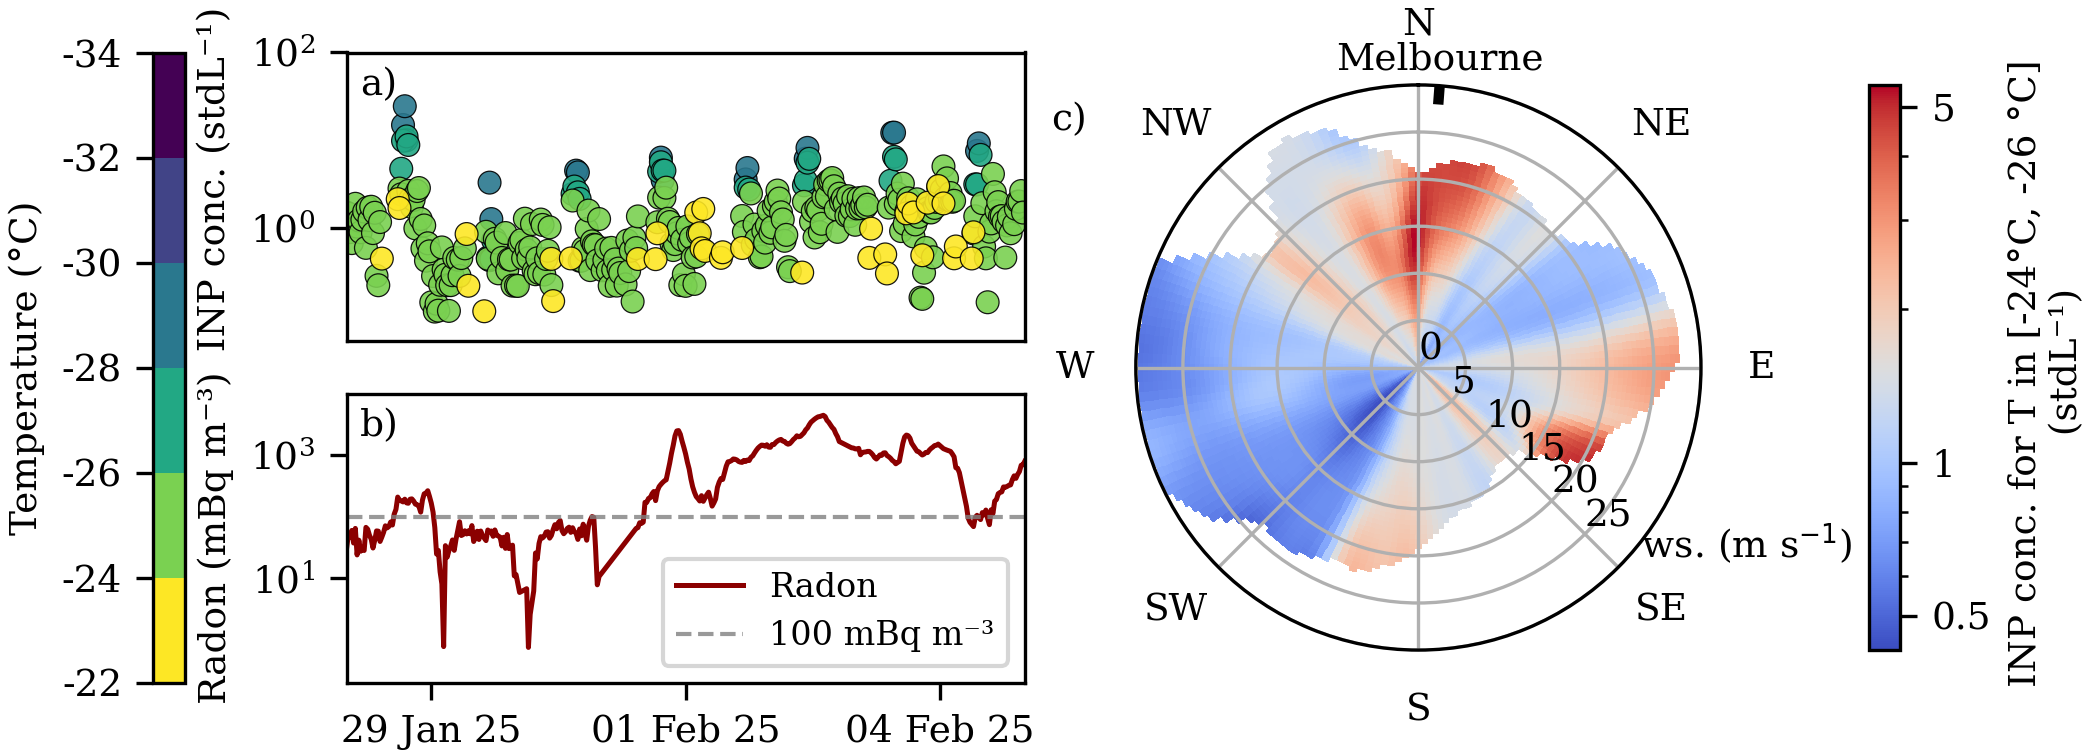
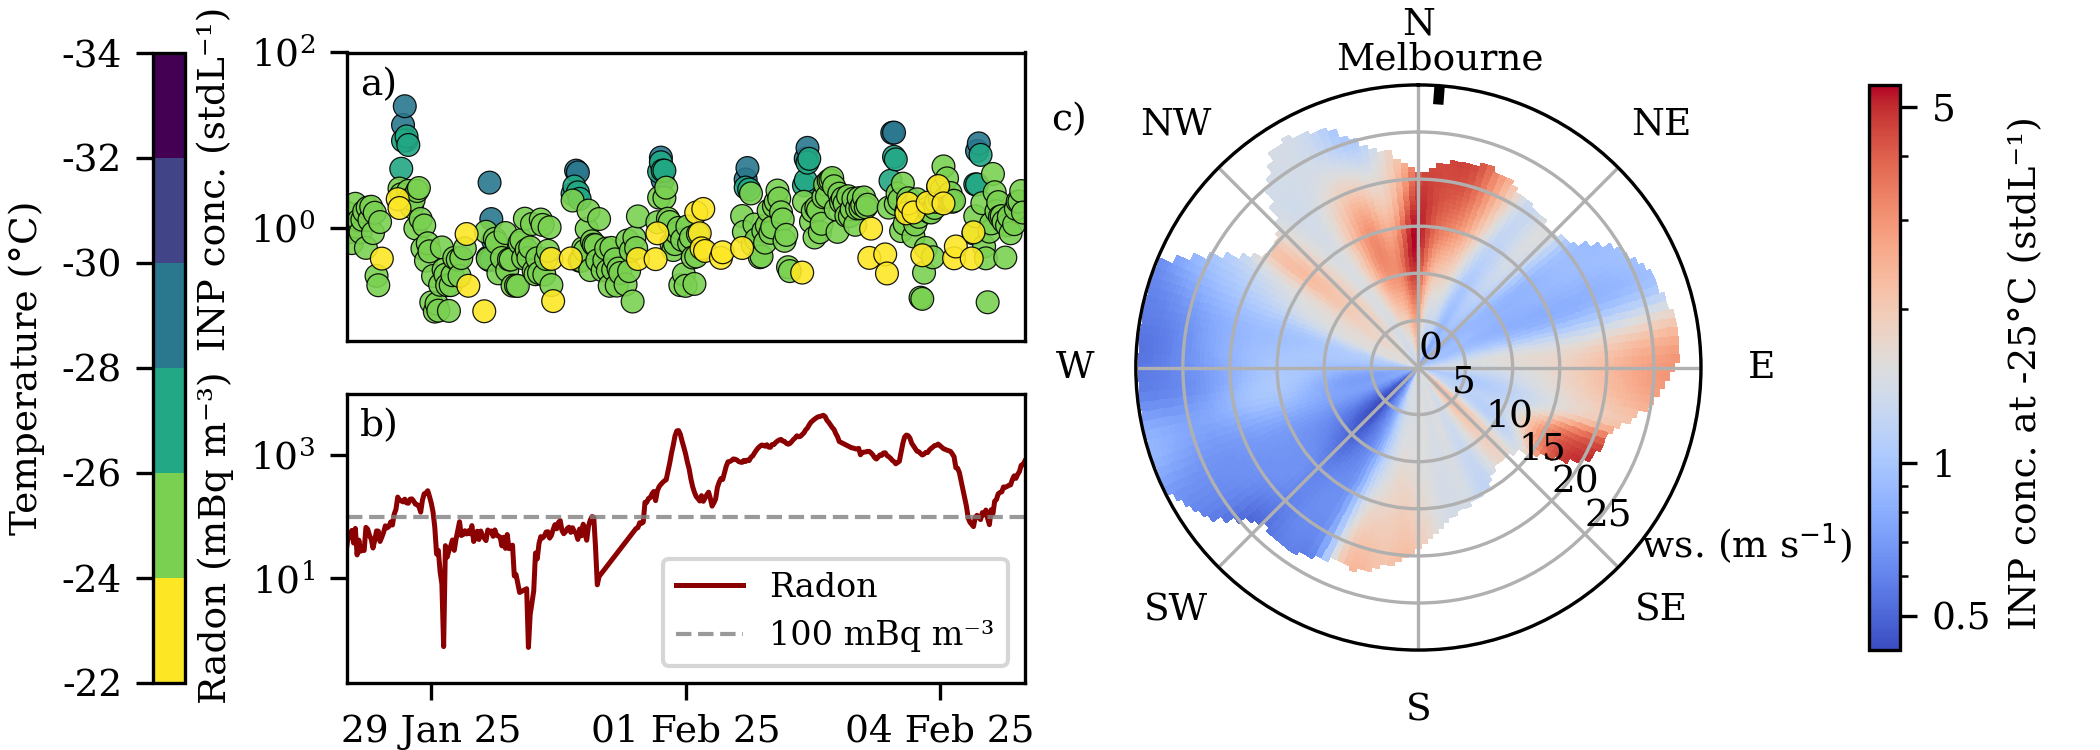
Variability PINE script

Changed region(s): [[0.9595, 0.184, 0.9905, 0.8893]]

diff --git a/Analysis/findVariabilityPINE.py b/Analysis/findVariabilityPINE.py
@@ -1,0 +1,59 @@
+'''
+This script bins the PINE data in 2K bins, calculates the 4h average and prints the minimum (non-zero), maximum, mean, median and IQR for each bin
+'''
+import pandas as pd
+import numpy as np
+
+
+csv_file = '/mnt/d/Cape24-data/Data/processedPINE/Capek.csv'
+df = pd.read_csv(csv_file)
+
+
+df['datetime'] = pd.to_datetime(df['datetime'], errors='coerce')
+df = df.dropna(subset=['datetime', 'T_min', 'INP_cn_0'])
+
+# Quality control
+df = df[
+    (df['T_min'] < 253.15) &                     # keep only T_min < -20 °C (in Kelvin)
+    (df['operation_number'] >= 11) & 
+    (~df['operation_number'].between(24, 27, inclusive='both')) &
+    (~df['operation_number'].isin([242, 244])) & 
+    (~df['operation_number'].isin([43])) & 
+    (~df['operation_number'].isin([74]))
+]
+
+df['T_min_K'] = df['T_min']
+df['T_min_C'] = df['T_min'] - 273.15
+
+df = df[df['T_min_C'] < -22]
+
+bin_edges = np.arange(-34, -22 + 2, 2)   # [-34, -32, -30, -28, -26, -24, -22]
+bin_labels = [f"{int(bin_edges[i])} to {int(bin_edges[i+1])}°C" for i in range(len(bin_edges)-1)]
+
+df['temp_bin'] = pd.cut(df['T_min_C'], bins=bin_edges, labels=bin_labels, right=True)
+
+# 4‑hour averages 
+df['4h_group'] = df['datetime'].dt.floor('4h')
+
+
+fourhour_avg = df.groupby(['4h_group', 'temp_bin'], observed=False)['INP_cn_0'].mean().reset_index()
+fourhour_avg.rename(columns={'INP_cn_0': 'INP_4h_mean'}, inplace=True)
+
+# nonzero
+fourhour_nonzero = fourhour_avg[fourhour_avg['INP_4h_mean'] > 0]
+
+# Statistics
+grouped = fourhour_nonzero.groupby('temp_bin', observed=False)['INP_4h_mean'].agg([
+    'min', 'max', 'mean', 'std', 'median',
+    ('IQR', lambda x: x.quantile(0.75) - x.quantile(0.25))
+])
+
+# Print the results
+print("Statistics of NON‑ZERO 4‑hour average INP values per 2°C bin:")
+print("(Bins: -34 to -22°C in 2° steps, only T < -22°C)\n")
+
+for bin_name, row in grouped.iterrows():
+    if pd.notna(bin_name):
+        print(f"{bin_name}:  min = {row['min']:.3f},  max = {row['max']:.3f},  "
+              f"mean = {row['mean']:.3f},  std = {row['std']:.3f},  "
+              f"median = {row['median']:.3f},  IQR = {row['IQR']:.3f}")

diff --git a/Figures/Figure4.py b/Figures/Figure4.py
@@ -284,7 +284,7 @@ ax_polar.text(-0.15, 0.97, 'c)', transform=ax_polar.transAxes,
 
 pos_polar_new = ax_polar.get_position()
 cax_wind = fig.add_axes([pos_polar_new.x1 + 0.08, pos_polar_new.y0, 0.015, pos_polar_new.height])
-cbar_wind = fig.colorbar(pcm, cax=cax_wind, label='INP conc. for T in [-24°C, -26 °C] \n  (stdL⁻¹) ')
+cbar_wind = fig.colorbar(pcm, cax=cax_wind, label='INP conc. at -25°C (stdL⁻¹) ')
 ticks = [0.1, 0.5, 1, 5, 10]
 ticks = [t for t in ticks if vmin <= t <= vmax]
 cbar_wind.set_ticks(ticks)